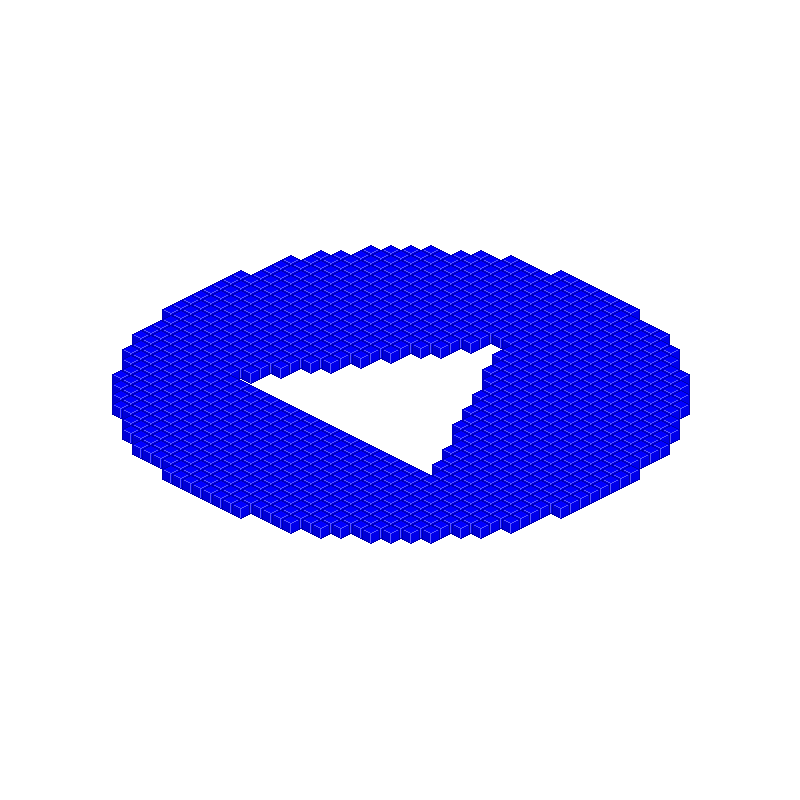
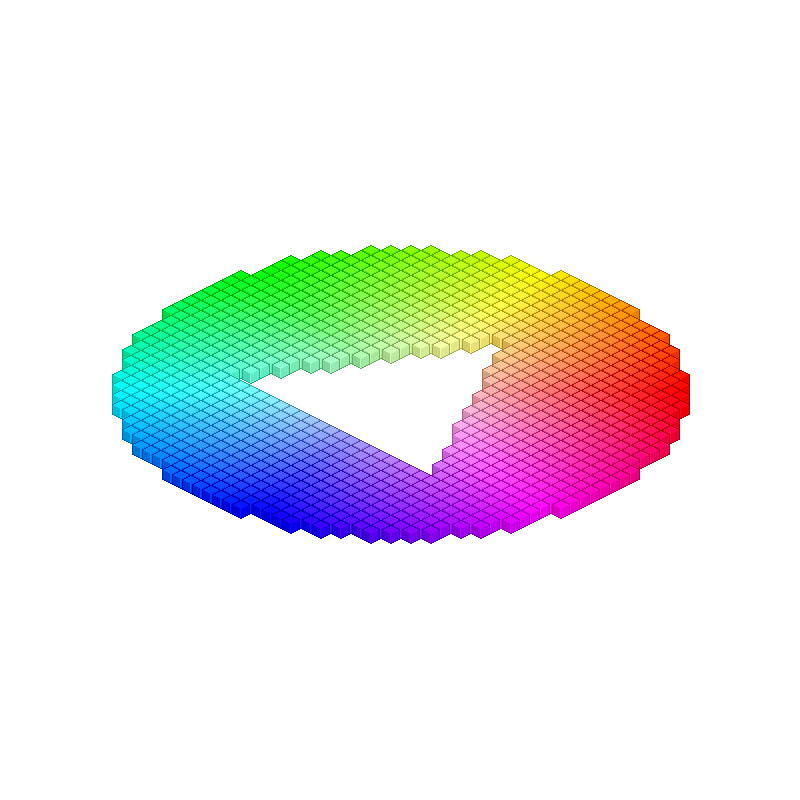
rainbox version

Changed region(s): [[0.125, 0.3125, 0.875, 0.6875]]

diff --git a/index.js b/index.js
@@ -12,19 +12,6 @@ const fs = require('fs');
 const { createCanvas } = require('canvas');
 const obelisk = require('./obelisk-nodeshim')(() => createCanvas(worldWidth, worldHeight));
 
-// create view instance to nest everything
-const canvas = createCanvas(worldWidth, worldHeight);
-const point = new obelisk.Point(worldWidth / 2, worldHeight / 2);
-const pixelView = new obelisk.PixelView(canvas, point);
-
-// create cube dimension and color instance
-const dimension = new obelisk.CubeDimension(pixelWidth, pixelHeight, pixelDepth);
-const actionsServiceBlue = 0x0000FF;
-const color = new obelisk.CubeColor().getByHorizontalColor(actionsServiceBlue);
-
-// build cube with dimension and color instance
-const cube = new obelisk.Cube(dimension, color, true);
-
 const isInCircle = (x,y) => {
     const distToOrigin = Math.sqrt(x*x + y*y);
     return distToOrigin < circleRadius;
@@ -56,6 +43,57 @@ const isInPlayTriangle = (x,y) => {
     return !(has_neg && has_pos);
 };
 
+const getColor = (x,y) => {
+    // Map x,y to circle (i.e. the HSV space)
+    let theta = Math.atan(y/x);
+    if (isNaN(theta)) {
+        return 0x000000;
+    }
+    // account for negative inputs based on quadrant
+    if (x < 0 && y > 0) {
+        // quadrant 2
+        theta += Math.PI;
+    }
+    if (x < 0 && y < 0) {
+        // quadrant 3
+        theta += Math.PI;
+    }
+    if (x > 0 && y < 0) {
+        // quadrant 4
+        theta += 2*Math.PI;
+    }
+
+    let r = Math.sqrt(x*x + y*y);
+    const unitR = r / circleRadius;
+
+    // Theta is hue, unitR is saturation.  We'll use a value of 1 for white
+    let h = theta * 180 / Math.PI;
+    const value = 1;
+    const saturation = unitR;
+
+    // flip h to match the color order in our logo
+    h = 360 - h;
+    // rotate colors to align yellow with tip of arrow
+    h = (h - 45) % 360;
+
+    const f = (n) => {
+        const k = (n + h / 60) % 6;
+        return value - (value * saturation * Math.max(0, Math.min(k, 4-k, 1)));
+    };
+
+    return Math.trunc(f(5) * 255) * Math.pow(2, 16) +
+        Math.trunc(f(3) * 255) * Math.pow(2, 8) +
+        Math.trunc(f(1) * 255);
+}
+
+// create view instance to nest everything
+const canvas = createCanvas(worldWidth, worldHeight);
+const point = new obelisk.Point(worldWidth / 2, worldHeight / 2);
+const pixelView = new obelisk.PixelView(canvas, point);
+
+// create cube dimension and color instance
+const dimension = new obelisk.CubeDimension(pixelWidth, pixelHeight, pixelDepth);
+
 // Start drawing
 const halfHeight = worldHeight / 2;
 const halfWidth = worldWidth / 2;
@@ -65,6 +103,19 @@ for (let i = -halfWidth; i < halfWidth; i += pixelWidth) {
         const x = i + pixelWidth / 2;
         const y = j + pixelHeight / 2;
         if (isInCircle(x,y) && !isInPlayTriangle(x,y)) {
+            const color = getColor(x,y);
+            //const color = new obelisk.CubeColor().getByHorizontalColor(color);
+            const cubeColor = new obelisk.CubeColor(
+                obelisk.ColorGeom.applyBrightness(color, -80),      // border
+                obelisk.ColorGeom.applyBrightness(color, 0, false),  // border highlight
+                obelisk.ColorGeom.applyBrightness(color, -40),      // left
+                obelisk.ColorGeom.applyBrightness(color, -20),      // right
+                color                                       // top
+            );
+
+            // build cube with dimension and color instance
+            const cube = new obelisk.Cube(dimension, cubeColor, true);
+
             const pixelPoint = new obelisk.Point3D(i, j, 0);
             pixelView.renderObject(cube, pixelPoint);
         }
